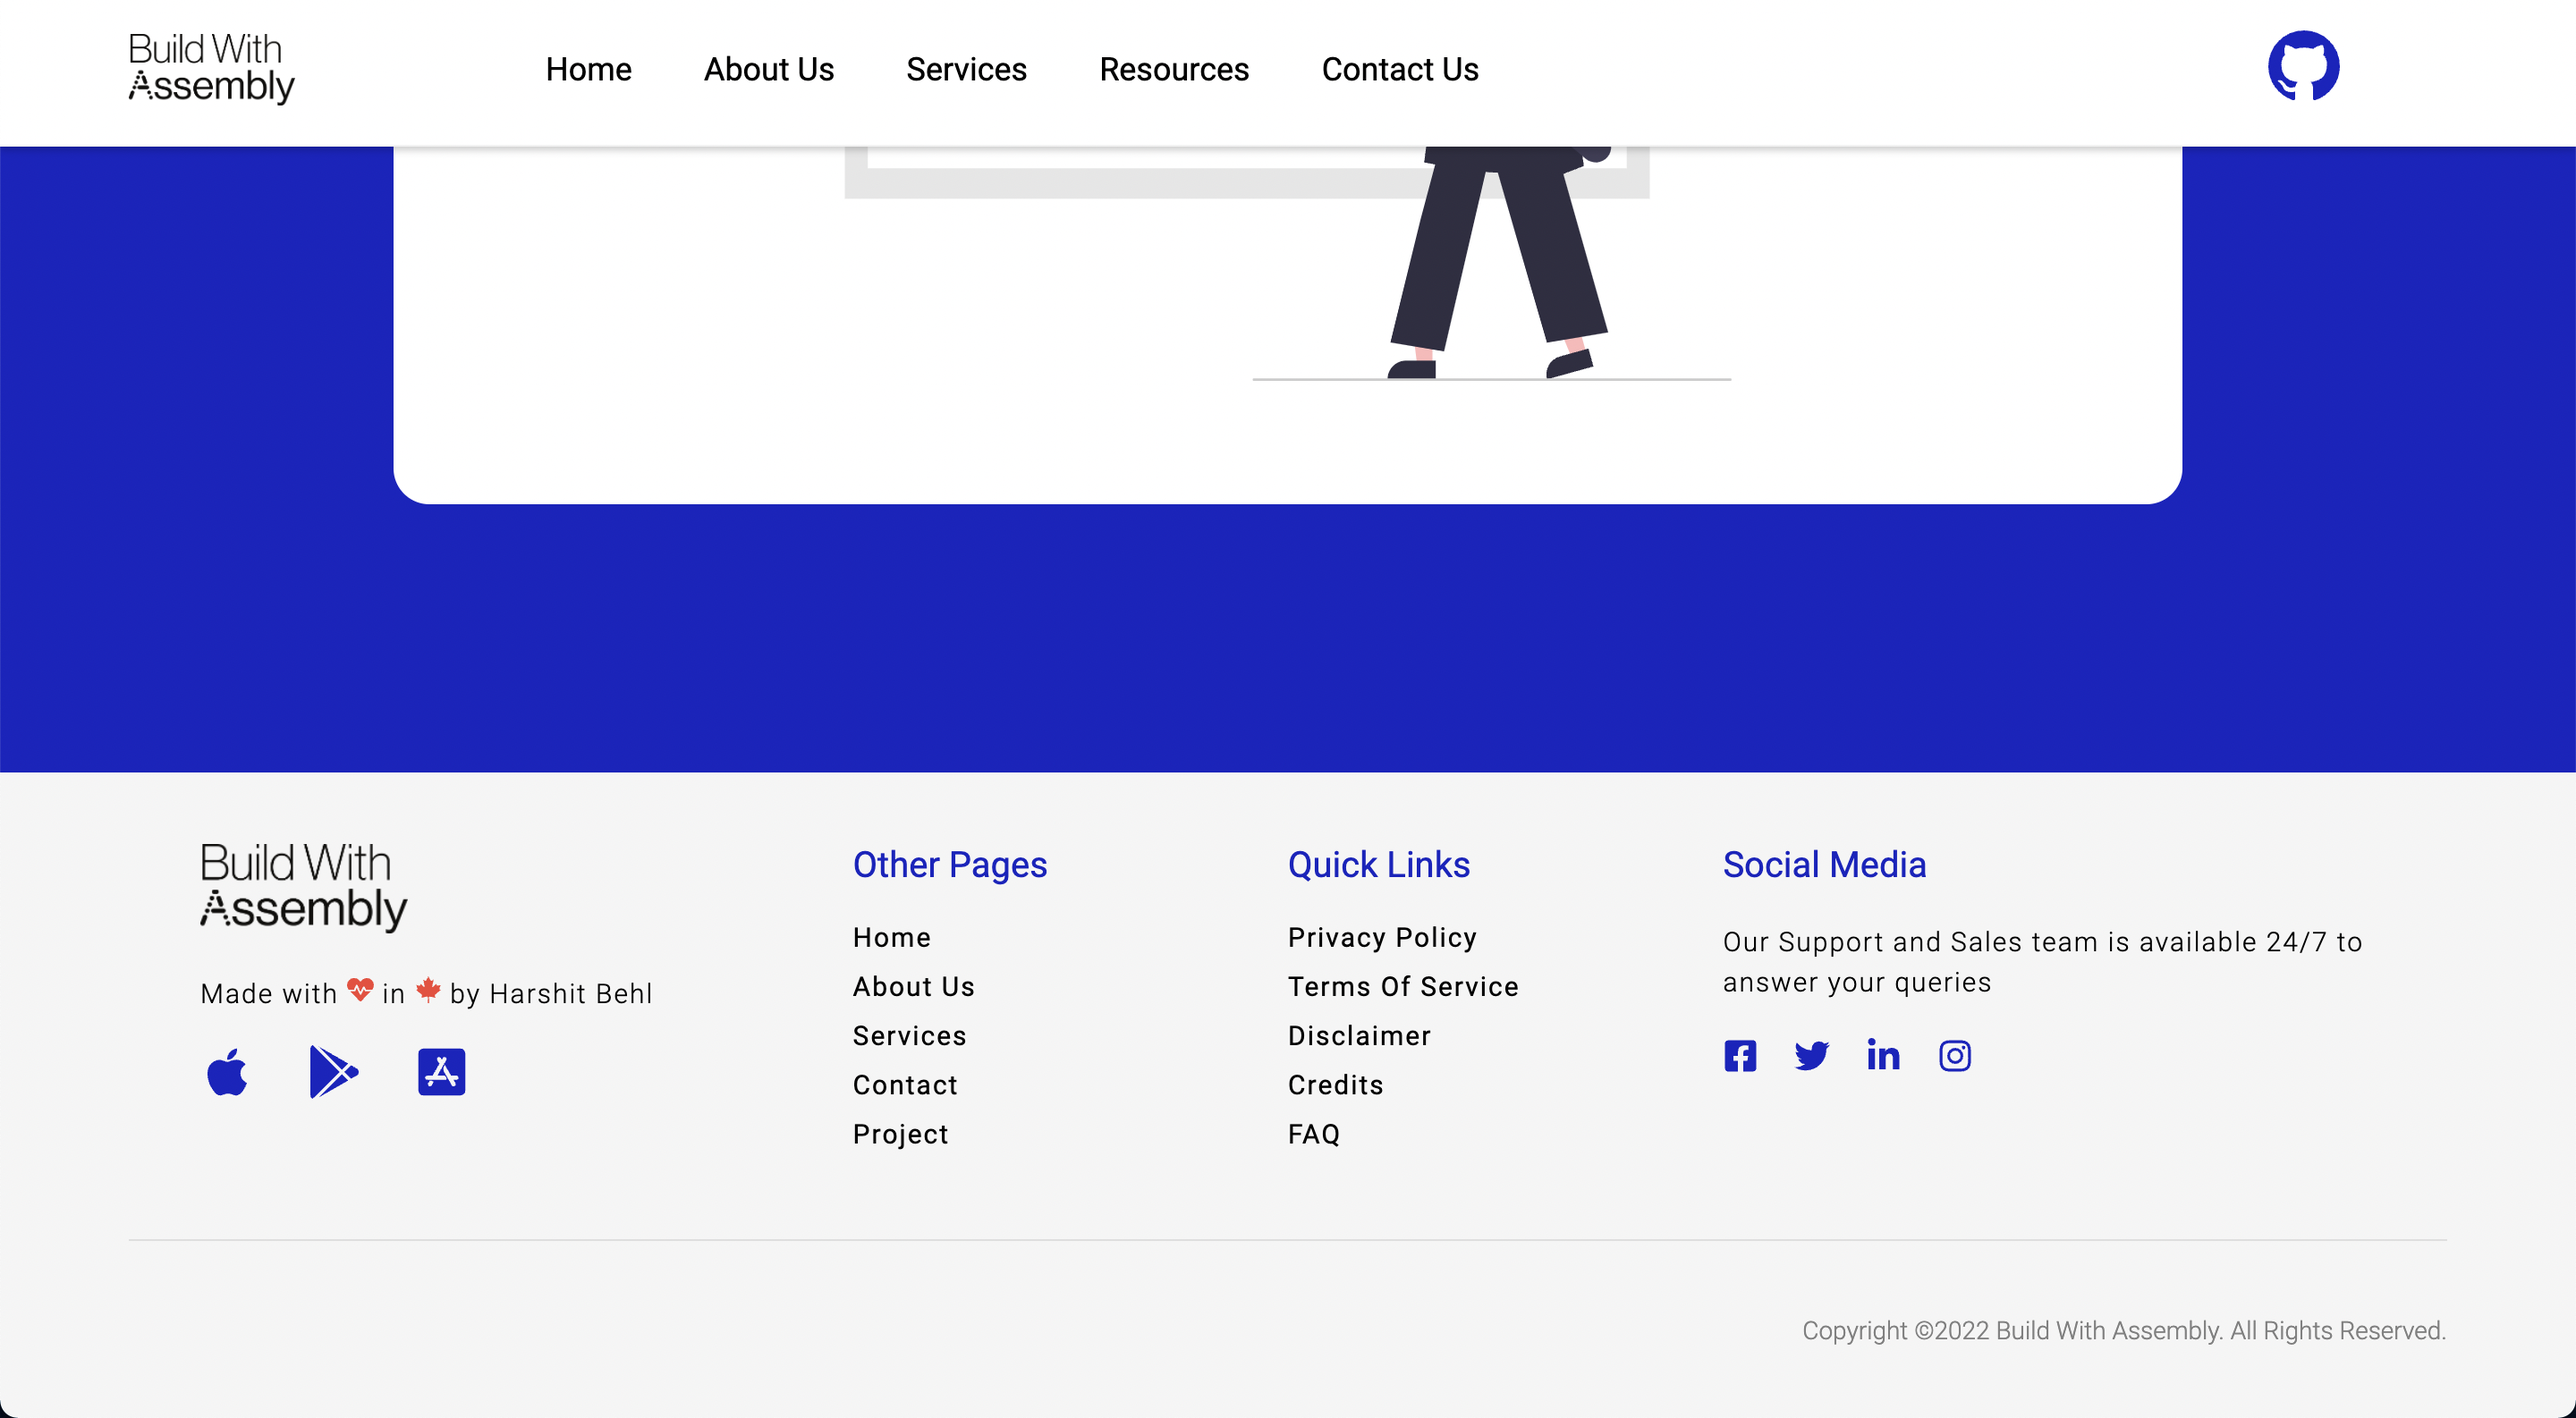
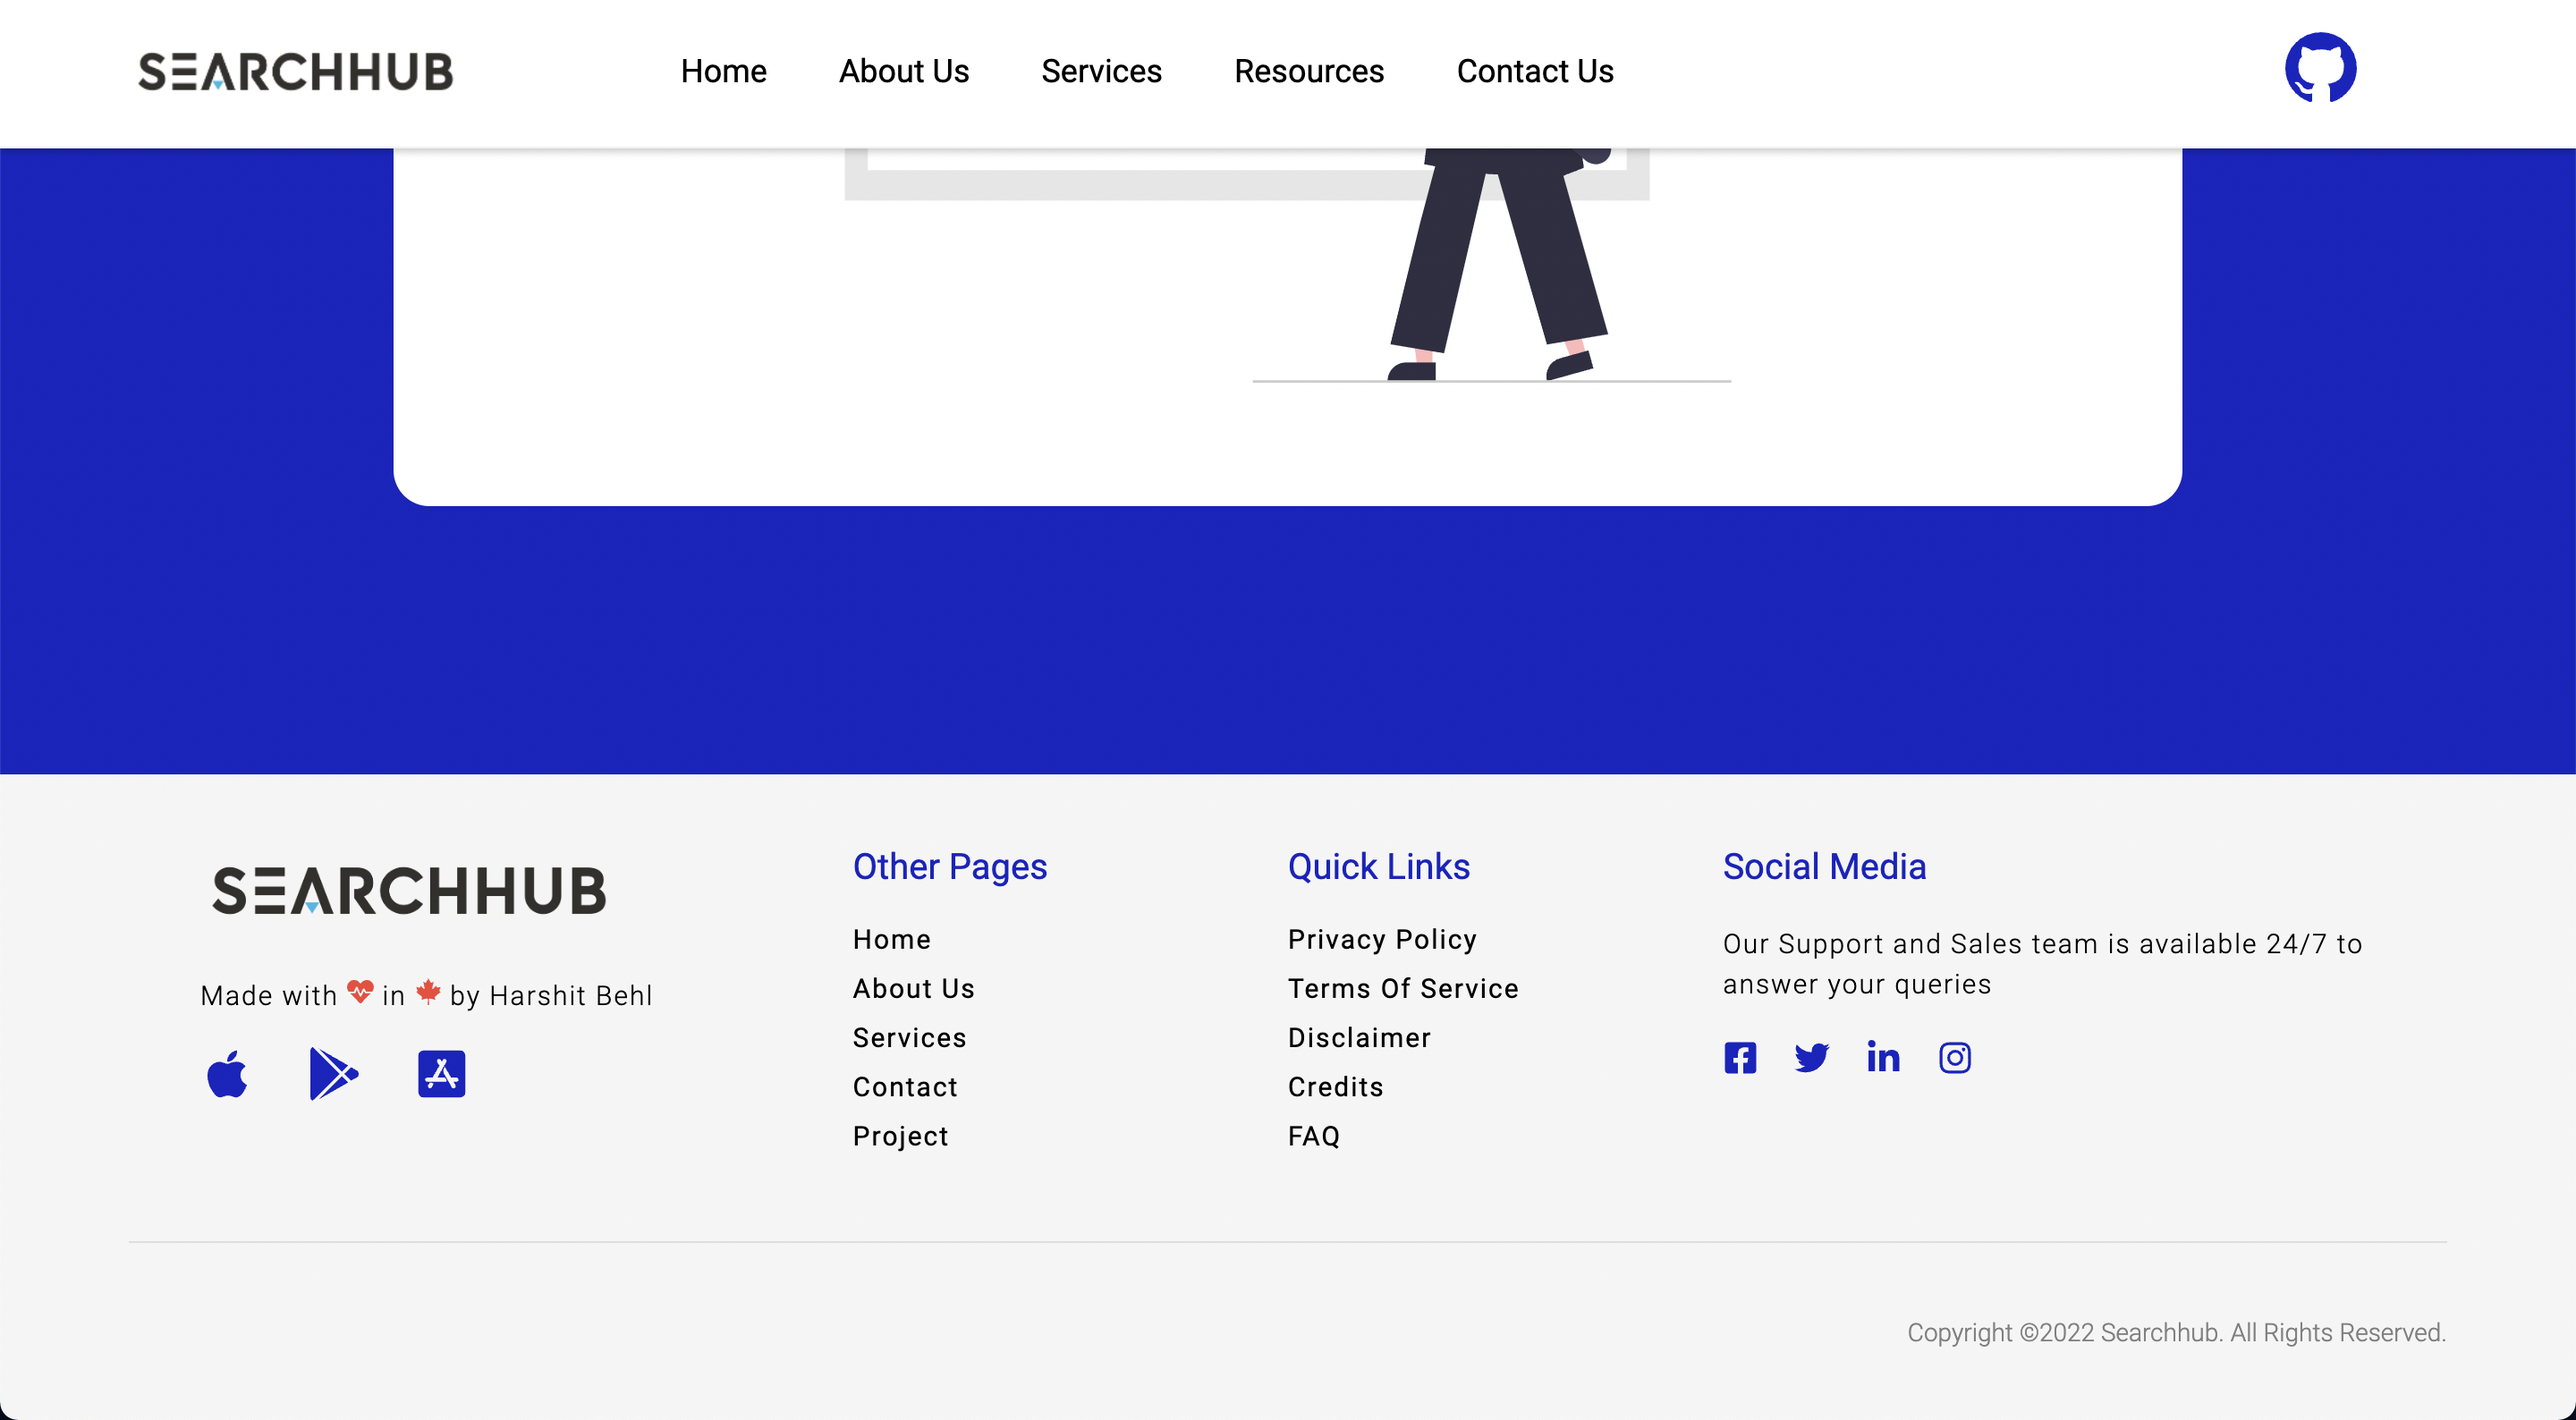
refactor(client): general maintenance and updated application

diff --git a/client/src/components/header/Header.jsx b/client/src/components/header/Header.jsx
@@ -4,6 +4,7 @@ import "./Header.scss";
 
 import { BsGithub } from "react-icons/bs";
 import { motion } from "framer-motion";
+import appLogo from "../../assets/images/appLogo.png";
 
 function Header() {
   const [isScrolled, setIsScrolled] = useState(false);
@@ -29,10 +30,7 @@ function Header() {
     >
       <div className="header__container main-container">
         <div className="header__logo">
-          <img
-            src="https://s3-recruiting.cdn.greenhouse.io/external_greenhouse_job_boards/logos/400/397/400/original/Build-With-Assembly-Logo-black.png?1619213119"
-            alt="Header Logo"
-          />
+          <img src={appLogo} alt="Header Logo" />
         </div>
         <nav className="header__nav">
           <ul>
@@ -47,7 +45,7 @@ function Header() {
           <motion.a
             whileHover={{ rotate: "1turn", scale: 1.1 }}
             transition={{ duration: 0.4 }}
-            href="https://github.com/harshitbehl/buildwithassembly-harshitbehl"
+            href="https://github.com/harshitbehl/searchhub"
           >
             <BsGithub className="header__github-icon" />
           </motion.a>

diff --git a/client/src/components/footer/Footer.jsx b/client/src/components/footer/Footer.jsx
@@ -13,6 +13,7 @@ import {
   FaHeartbeat,
 } from "react-icons/fa";
 import { motion } from "framer-motion";
+import appLogo from "../../assets/images/appLogo.png";
 
 function Footer() {
   // Link Creator Function
@@ -30,10 +31,7 @@ function Footer() {
     <footer className="footer">
       <div className="footer__top main-container">
         <div className="footer__logo">
-          <img
-            src="https://s3-recruiting.cdn.greenhouse.io/external_greenhouse_job_boards/logos/400/397/400/original/Build-With-Assembly-Logo-black.png?1619213119"
-            alt="Header Logo"
-          />
+          <img src={appLogo} alt="Header Logo" />
           <p>
             Made with <FaHeartbeat className="footer__logo-heart" /> in{" "}
             <FaCanadianMapleLeaf className="footer__logo-maple" /> by Harshit
@@ -80,7 +78,7 @@ function Footer() {
       </div>
 
       <div className="footer__bottom main-container">
-        <span>Copyright ©2022 Build With Assembly. All Rights Reserved.</span>
+        <span>Copyright ©2022 Searchhub. All Rights Reserved.</span>
       </div>
     </footer>
   );

diff --git a/client/src/components/showcase/Showcase.jsx b/client/src/components/showcase/Showcase.jsx
@@ -15,16 +15,15 @@ function Showcase() {
       <div className="showcase__container main-container">
         <div className="showcase__content-container">
           <h1>
-            Build With{" "}
             <motion.span
               whileHover={{ rotate: 10 }}
               transition={{ type: "spring", stiffness: 500 }}
             >
-              Assembly
+              Searchhub
             </motion.span>{" "}
-            Take Home Task
+            GitHub Search Application
           </h1>
-          <p>Frontend Task, by Harshit Behl</p>
+          <p>Search GitHub Database</p>
           <a href="#task-section">
             <motion.button
               animate={{ scale: [1, 1.1, 1] }}
@@ -34,7 +33,7 @@ function Showcase() {
                 delay: 1.5,
               }}
             >
-              View Task
+              Search
             </motion.button>
           </a>
         </div>

diff --git a/client/public/index.html b/client/public/index.html
@@ -5,9 +5,9 @@
     <meta name="viewport" content="width=device-width, initial-scale=1" />
     <meta
       name="description"
-      content="Build With Assembly, Case Study - Harshit Behl"
+      content="Searchhub - GitHub Database Search - GitHub API"
     />
-    <title>Build With Assembly, Case Study - Harshit Behl</title>
+    <title>Searchhub - GitHub Database Search</title>
   </head>
   <body>
     <noscript>You need to enable JavaScript to run this app.</noscript>

diff --git a/client/src/components/task/Task.jsx b/client/src/components/task/Task.jsx
@@ -19,7 +19,7 @@ function Task() {
   return (
     <section className="task" id="task-section">
       <div className="task__container main-container">
-        <h2 className="task__title section-title">Frontend Task</h2>
+        <h2 className="task__title section-title">GitHub Search</h2>
         <p className="task__subtitle">
           Search GitHub For Users & Organizations
         </p>

diff --git a/client/src/components/showcase/Showcase.scss b/client/src/components/showcase/Showcase.scss
@@ -40,7 +40,7 @@
       font-weight: 500;
       text-transform: uppercase;
       letter-spacing: 0.1rem;
-      line-height: 1.5;
+      line-height: 1.4;
 
       span {
         color: variables.$primary-text-color;

diff --git a/README.md b/README.md
@@ -1,27 +1,27 @@
-<img src="https://s3-recruiting.cdn.greenhouse.io/external_greenhouse_job_boards/logos/400/397/400/original/Build-With-Assembly-Logo-black.png?1619213119" width="400" />
+<img src="/assets/readmeImages/appLogo.png" width="400" />
 
 ---
 
-# Build With Assembly Take Home Task
+# Searchhub - GitHub Database Search - GitHub API
 
 An interactive & fully responsive web application to search github database for users and organizations. 🚀
 
 ## 🔗 Live Demo
 
-[Click For Live Demo](https://buildwithassembly-harshitbehl.vercel.app)
+[Click For Live Demo](https://searchhub.vercel.app)
 
 ## 💻 Run Locally
 
 Clone the project
 
 ```bash
-  git clone https://github.com/harshitbehl/buildwithassembly-harshitbehl.git
+  git clone https://github.com/harshitbehl/searchhub.git
 ```
 
 Go to the project directory
 
 ```bash
-  cd buildwithassembly-harshitbehl > cd client
+  cd searchhub > cd client
 ```
 
 Install dependencies
@@ -41,11 +41,11 @@ Start the server
 - Interactive sticky header with an animated github source code button & links.
 - Beautiful and interactive landing page showcase with animations.
   - Network nodes live motion background.
-  - Spring animated "Assembly" text on hover.
+  - Spring animated "Searchhub" text on hover.
   - SVG Illustration animation on first render.
   - A delayed animated attention grabbing button, which will guide towards the task section.
   - SVG waves section divider for modern look and feel.
-- Task section with background inspired from build with assembly's website.
+- Task section with background inspired from modern websites.
   - Modern & attractive form design.
   - Form is interactive and change as we enter inputs.
   - Form validations & errors.
@@ -99,7 +99,7 @@ Start the server
 
 **Design**
 
-- Select & wireframe application layout & design, take inspiration from build with assembly website.
+- Select & wireframe application layout & design, take inspiration from dribbble.
 - Select application theme, color pallette & typography.
 - Break application into components while ensuring it stays scalable.
 
